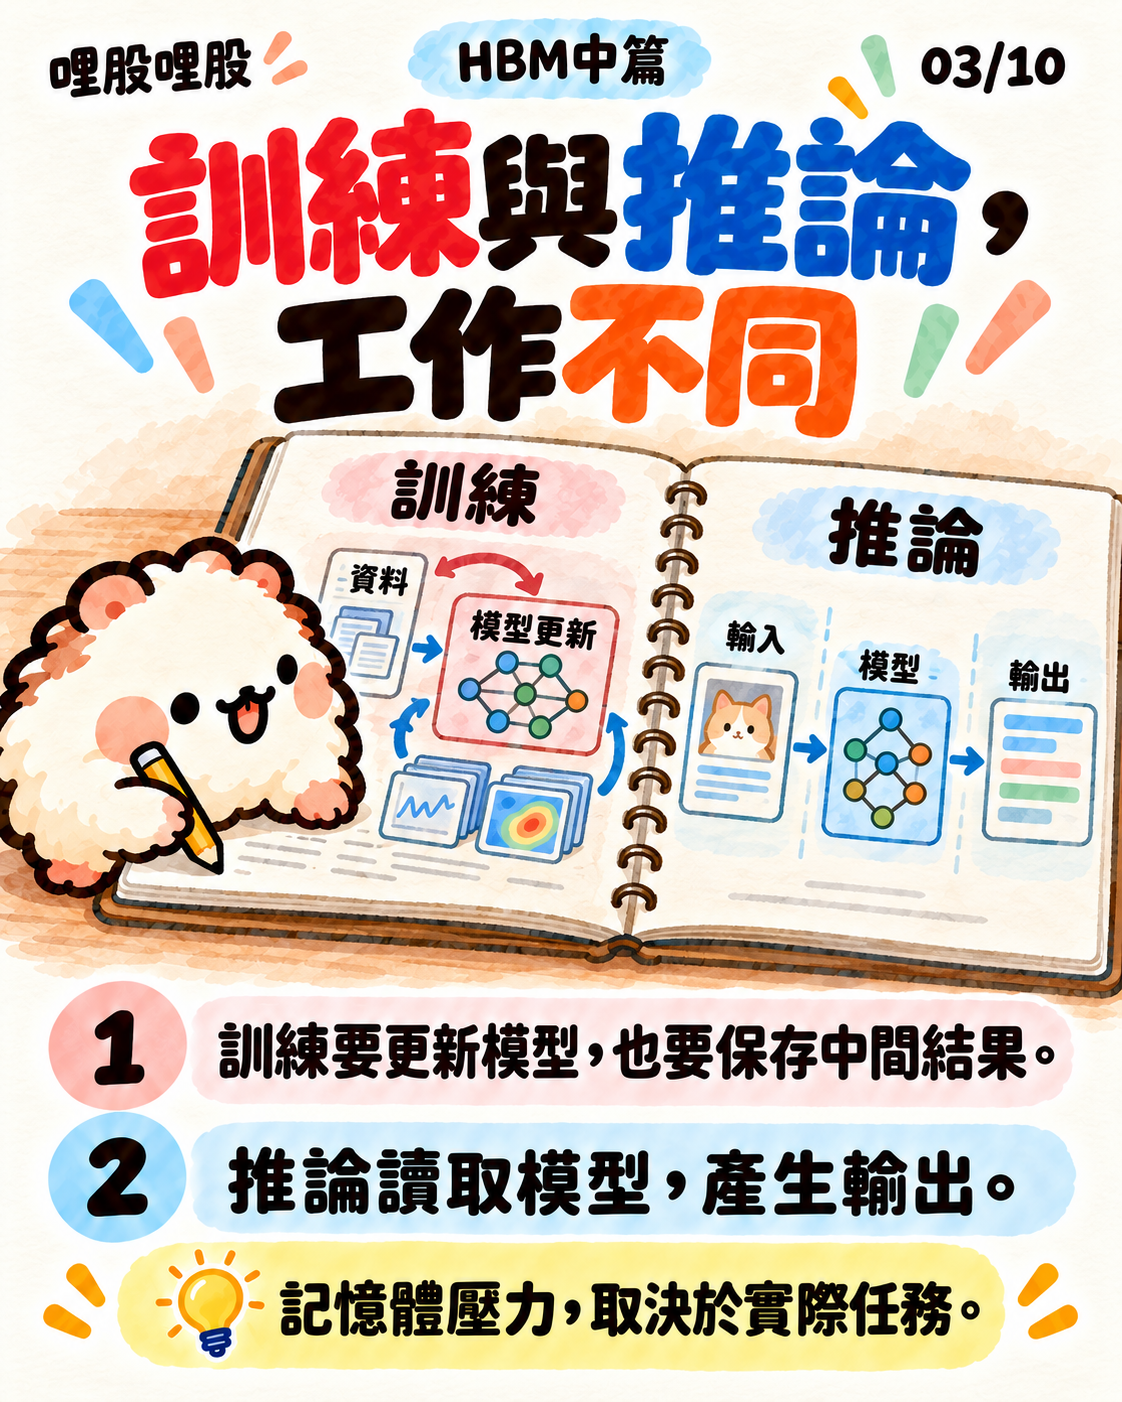
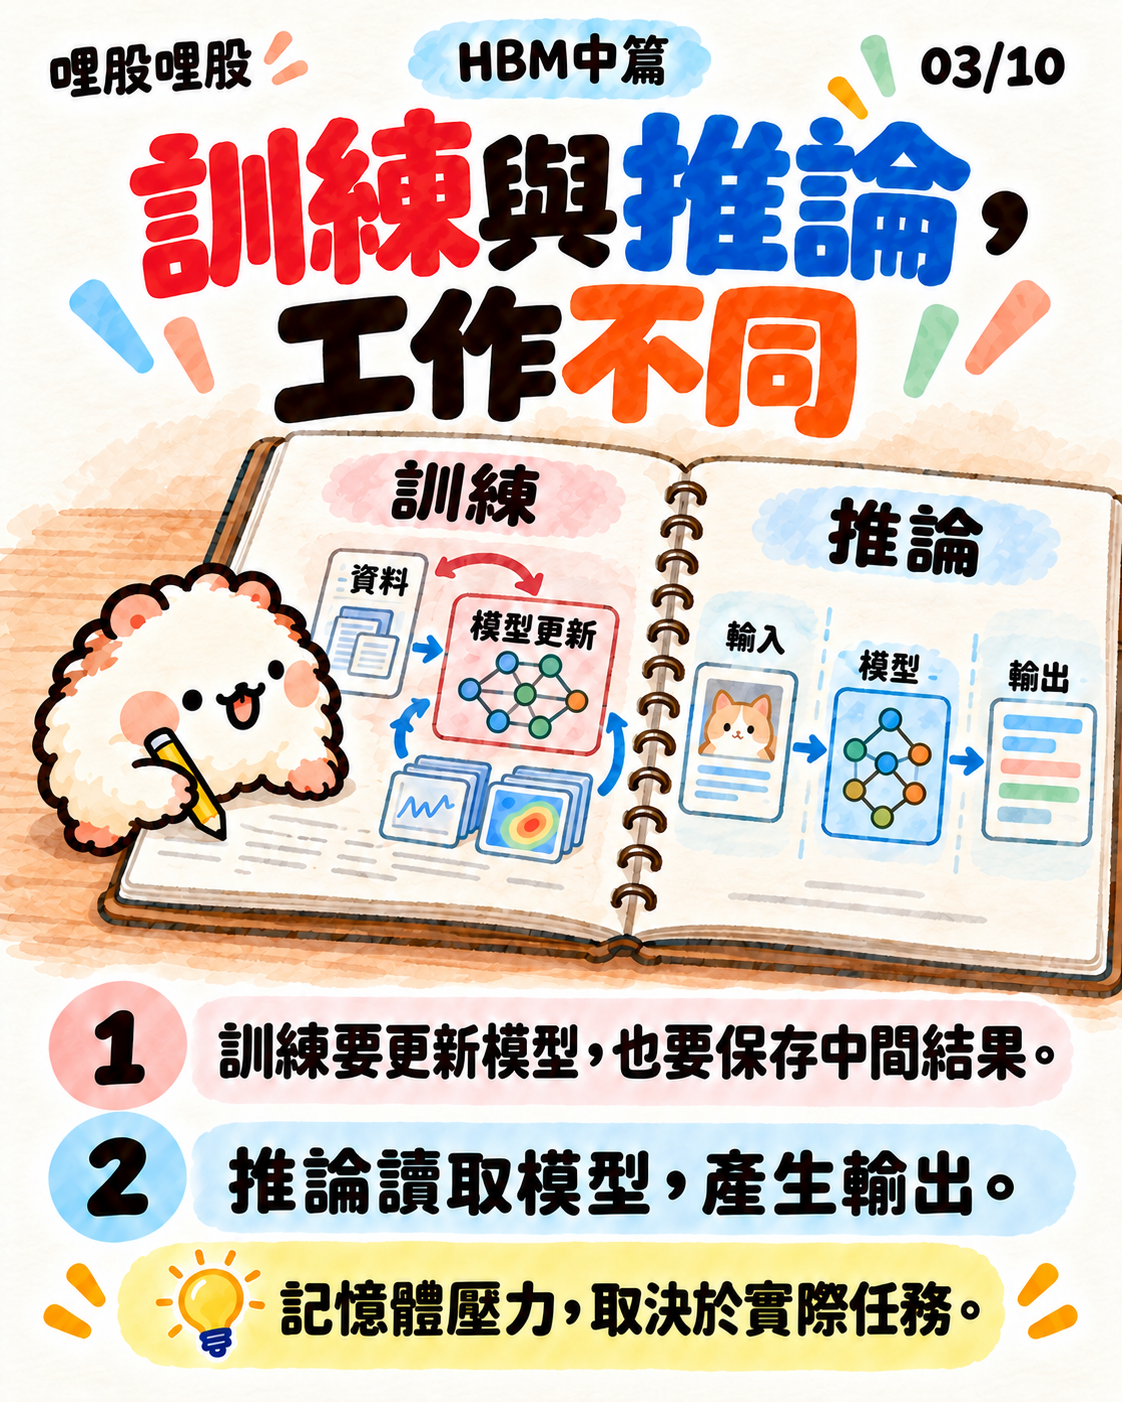
保存HBM已生成12頁與跨電腦接續製作入口，標明未完成

diff --git a/docs/social_handoff/跨電腦接續製作.md b/docs/social_handoff/跨電腦接續製作.md
@@ -1,0 +1,34 @@
+# 哩股哩股｜跨電腦接續製作入口
+
+更新：2026-10-19，Asia/Taipei。
+
+## 先確認入口
+
+目前有兩個同名LIGULIGU：本機Codex專案使用C:\哩股哩股；另有ChatGPT雲端專案。它們不是同一個專案或同一份對話。電腦資料夾與本機對話不能因登入同帳號就假定已上傳。GitHub／私人素材庫保存也不等於ChatGPT專案來源已同步。
+
+跨電腦以ChatGPT雲端LIGULIGU作為規格與製作對話入口，來源檔上傳或連接到該專案後再開啟製作對話。本檔尚未替使用者上傳ChatGPT專案，也未把本機對話轉成雲端對話。
+
+官方說明：https://learn.chatgpt.com/docs/projects
+
+## 需要帶入的長期設定
+
+- [最新專屬產貼文規範](https://github.com/MiaoZiKe/tw-rotation/blob/codex/social-posts-2026-10-19-hbm-series/專屬產貼文.md)：10頁平衡手繪、比比身份、無底腳與合理填版、TXT分平台／字元檢查／短段重點。
+- 官方網站：https://liguligu-puipui.com/#overview
+- 私人素材庫：https://bibi-creative-studio.kcq01010909.chatgpt.site/ （登入自己的原帳號；非公開官網，不能假設所有ChatGPT對話能直接讀登入後素材）。
+- GitHub：MiaoZiKe/tw-rotation，產業圖解site/dg/。公開資料可讀，修改需實際授權工具。備份僅分支PR，不能直推main。
+- 比比角色：奶白寬扁毛球、深咖啡描邊、小黑點眼、小橘粉耳與腮紅、短掌短腳、無尾巴，主持動作依內容變化。原始角色參考使用Andy提供的跳跳.gif；若新環境拿不到，先由素材庫或使用者提供原檔，不靠文字假稱已讀。
+
+## 已完成與製作中要分開
+
+- 費半急跌10頁與文案：已在[素材庫該篇](https://bibi-creative-studio.kcq01010909.chatgpt.site/?item=ab0ae0a6-722d-4525-b09b-7996897e3954)，雲端待審核，GitHub[PR13](https://github.com/MiaoZiKe/tw-rotation/pull/13)未合併。
+- 晶圓代工GPT原生上中下各10頁：[PR11](https://github.com/MiaoZiKe/tw-rotation/pull/11)。與歷史8頁版本分開；不能將8頁素材庫版本當成此版已上傳的證據。
+- HBM上中下新版30頁：本次只生成12張（上5／中4／下3），未完成整篇QA、TXT文案或素材庫上傳。[PR14製作中備份](https://github.com/MiaoZiKe/tw-rotation/pull/14)。製作代理遇用量上限中斷，不宣稱背景仍在生圖或整篇完成。
+- 矽晶圓、先進封裝、第三代半導體：各上中下3篇仍待本次10頁平衡原生版製作；舊稿不等於新版完成。
+
+## 在另一台電腦的啟動文字
+
+請接續哩股哩股產業地圖貼文製作。先讀本檔與專屬產貼文規範，實際確認可用來源／圖像生成／檔案及GitHub工具。接HBM上中下製作中版本，不重做已有合格圖；先檢查PR14逐頁PNG、研究稿和生成提示詞，補完缺頁及分平台TXT。之後矽晶圓、先進封裝、第三代半導體各3篇，每篇10頁。角色參考未取得須明說，不冒稱看過。文案短段有重點，含適量emoji與來源／日期／免責；IG<=2200字元，Threads逐則<=500，FB本案內部<=5000，計入URL換行全文。完成才更新素材庫，不自動發布社群。
+
+## 本機另存與雲端保存
+
+能操作Andy本機時，成品集中IG Post/YYYY-MM-DD/貼文名稱，同日一個日期資料夾；雲端環境沒有此磁碟時交付可下載ZIP，不能聲稱寫入本機。規範與進度用GitHub可讀版本，圖片和TXT用私人素材庫／發文包，ChatGPT雲端專案另外加入必要來源。
